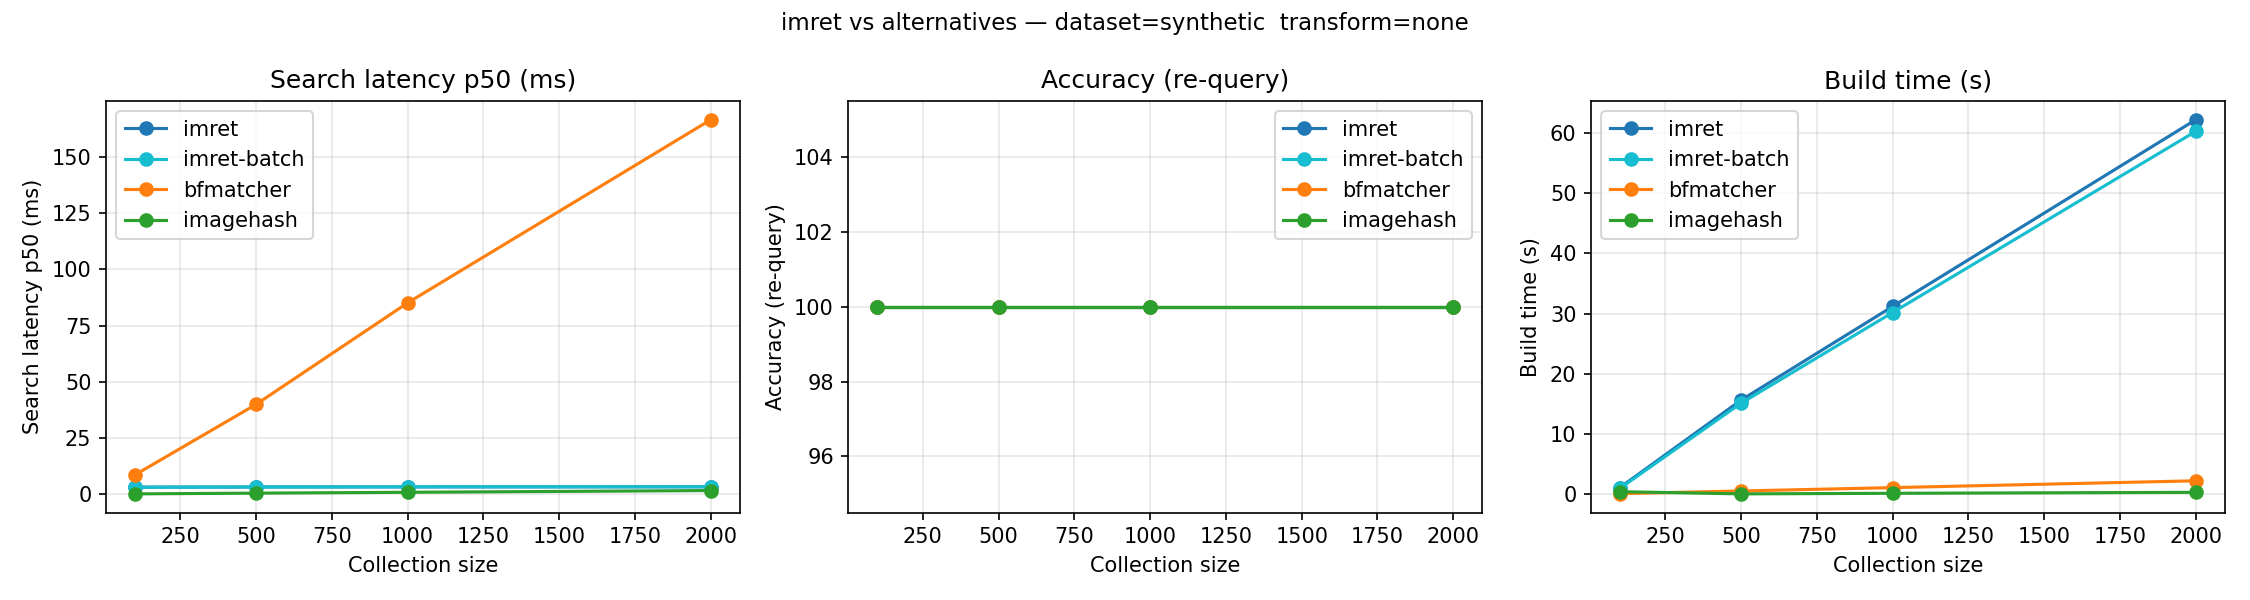
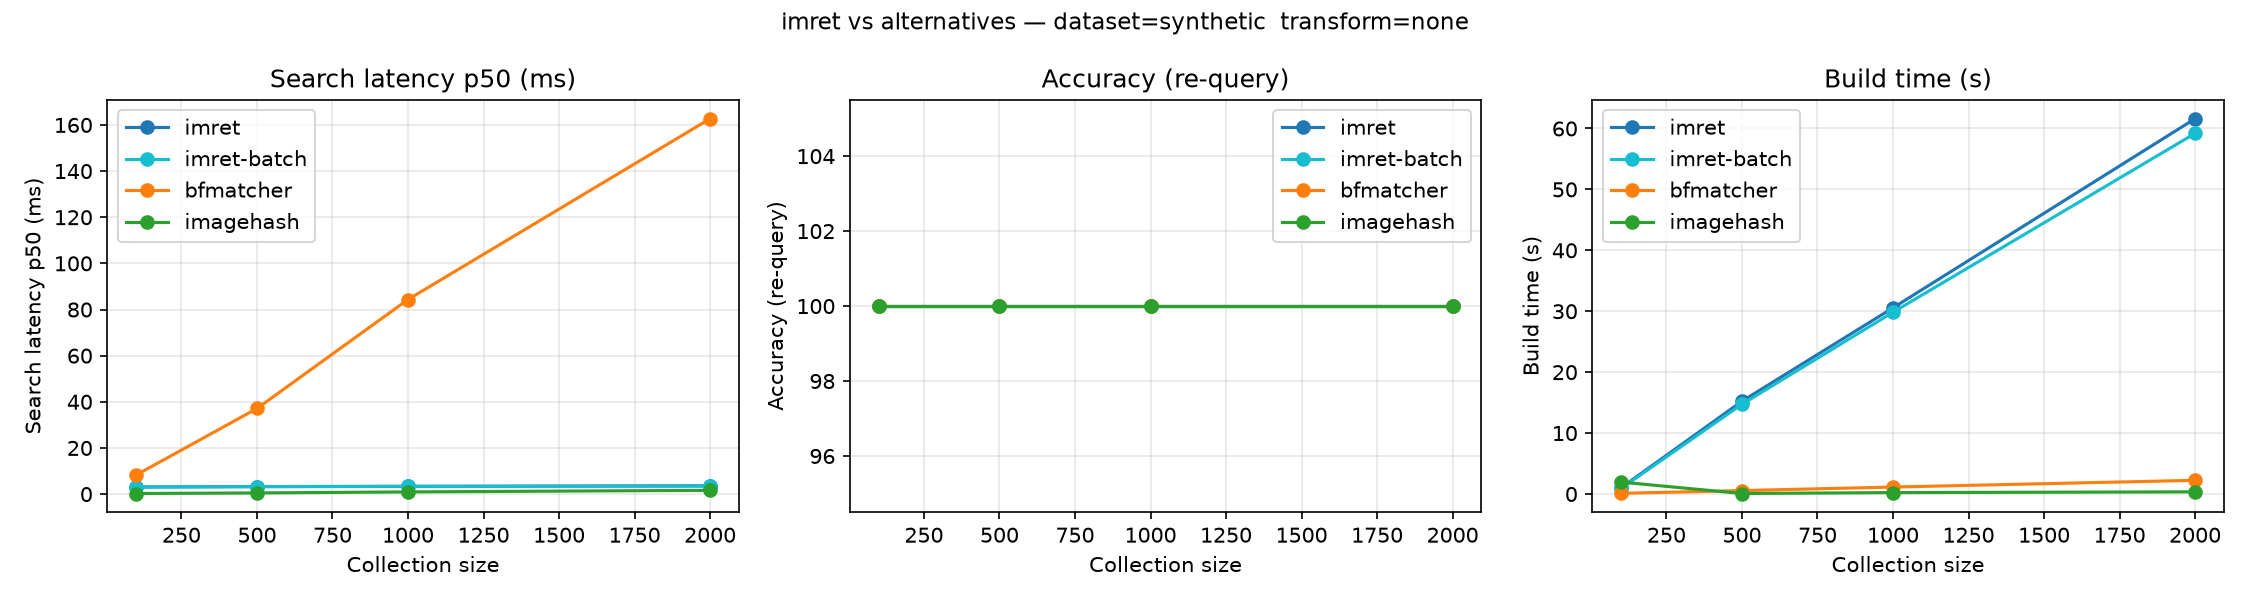
README: re-run benchmarks on 0.1.4; add Linux 0.1.1 vs 0.1.4 and 78k-scale results
macOS tables and plots regenerated with imret 0.1.4. New sections: Linux
x86_64 search 2.2-3.2x faster and build ~35-40% faster with the FAISS
dynamic-dispatch build; and a 77,893-cover album vault (top-1 94.5-99.8% on
synthetic phone photos, latency by CPU, and the confidence_threshold=0.05
recommendation for photos).

diff --git a/README.md b/README.md
@@ -204,9 +204,9 @@ Loads the vault at `<vault_prefix>.faiss` / `<vault_prefix>.meta`, searches with
 
 ## Benchmarks
 
-Generated by `benchmark.py` on macOS arm64, `max_features=500`, 20 queries per size.
+Generated by `benchmark.py` with imret 0.1.4 on macOS arm64, `max_features=500`, 20 queries per size. Linux x86_64 numbers and a large-scale run are further down.
 
-`imret` and `imret-batch` differ only at ingest: the batch variant uses `add_batch()` which extracts ORB features in parallel via OpenMP, reducing build time by up to 37% at large N. Search latency is identical.
+`imret` and `imret-batch` differ only at ingest: the batch variant uses `add_batch()` which extracts ORB features in parallel via OpenMP, reducing build time by up to 34% (WikiArt, N=1,000). Search latency is identical.
 
 ### Speed comparison — synthetic images, no transform
 
@@ -216,21 +216,21 @@ All methods score 100% accuracy on structurally distinct synthetic images, so th
 
 | N | imret | imret-batch | bfmatcher | imagehash |
 |---|---|---|---|---|
-| 100 | 3.19 | 3.11 | 8.60 | 0.20 |
-| 500 | 3.26 | 3.27 | 39.97 | 0.52 |
-| 1,000 | 3.30 | 3.33 | 85.14 | 0.90 |
-| 2,000 | 3.36 | 3.33 | 166.58 | 1.67 |
+| 100 | 3.08 | 3.04 | 8.28 | 0.26 |
+| 500 | 3.24 | 3.26 | 37.10 | 0.50 |
+| 1,000 | 3.35 | 3.37 | 84.34 | 0.95 |
+| 2,000 | 3.61 | 3.44 | 162.72 | 1.63 |
 
 **Build time (s)**
 
 | N | imret | imret-batch | bfmatcher | imagehash |
 |---|---|---|---|---|
-| 100 | 1.11 | 0.98 | 0.11 | 0.44 |
-| 500 | 15.64 | 15.12 | 0.56 | 0.07 |
-| 1,000 | 31.19 | 30.18 | 1.11 | 0.17 |
-| 2,000 | 62.20 | 60.27 | 2.25 | 0.33 |
+| 100 | 1.02 | 0.91 | 0.11 | 1.95 |
+| 500 | 15.23 | 14.73 | 0.56 | 0.08 |
+| 1,000 | 30.56 | 29.84 | 1.14 | 0.23 |
+| 2,000 | 61.61 | 59.20 | 2.24 | 0.35 |
 
-imret search latency is nearly flat (3.19ms → 3.36ms across 20× more images). BFMatcher grows linearly. Build time is higher because imret trains a FAISS IVF index upfront — a one-time cost at index time.
+imret search latency is nearly flat (3.08ms → 3.61ms across 20× more images). BFMatcher grows linearly. Build time is higher because imret trains a FAISS IVF index upfront — a one-time cost at index time.
 
 ### Accuracy comparison — WikiArt paintings, wall-photo transform
 
@@ -248,17 +248,61 @@ The wall transform adds a grey background border and light Gaussian blur, simula
 
 | N | imret | imret-batch | bfmatcher | imagehash |
 |---|---|---|---|---|
-| 100 | 21.64 | 21.54 | 29.74 | 1.69 |
-| 500 | 22.53 | 22.27 | 71.64 | 2.07 |
-| 1,000 | 22.21 | 22.33 | 130.68 | 2.42 |
+| 100 | 15.23 | 15.29 | 23.06 | 1.81 |
+| 500 | 15.15 | 16.04 | 64.94 | 2.13 |
+| 1,000 | 16.14 | 15.82 | 122.45 | 2.49 |
 
 imagehash is fast but effectively random on real images under this transform (10–15% ≈ 1-in-10 chance). imret maintains 100% accuracy. BFMatcher matches imret accuracy but latency grows linearly.
+
+### Linux x86_64 — 0.1.1 vs 0.1.4
+
+Synthetic images, Google Cloud Build `E2_HIGHCPU_8` (8 vCPU, AMD EPYC 7B12). imret 0.1.1's Linux wheel bundled a FAISS built for generic x86-64 with no hardware popcount, so every Hamming distance used a software bit count. 0.1.4 builds FAISS with runtime SIMD dispatch (`FAISS_OPT_LEVEL=dd`).
+
+**Search latency p50 (ms)**
+
+| N | imret 0.1.1 | imret 0.1.4 | speedup | bfmatcher | imagehash |
+|---|---|---|---|---|---|
+| 1,000 | 7.51 | 3.35 | 2.2× | 370.22 | 3.18 |
+| 5,000 | 11.75 | 4.41 | 2.7× | 1,847.78 | 14.88 |
+| 20,000 | 24.38 | 7.66 | 3.2× | 7,413.86 | 57.14 |
+
+**Build time (s)**
+
+| N | imret 0.1.1 | imret 0.1.4 | imret-batch 0.1.4 |
+|---|---|---|---|
+| 1,000 | 151.30 | 107.39 | 103.40 |
+| 5,000 | 426.76 | 271.01 | 266.34 |
+| 20,000 | 509.06 | 317.62 | 294.51 |
+
+All methods score 100% here, in both versions. The gap grows with N because the index scan, where popcount matters, grows while ORB extraction stays fixed. bfmatcher and imagehash are from the 0.1.4 run; they don't use FAISS, and in the 0.1.1 run they were within 5%.
+
+### At scale — 78k album covers
+
+imret as an album-cover recognizer. One vault holds 77,893 distinct covers (38.4M ORB descriptors, 1.54 GB on disk, 1.74 GB RSS when loaded), built in about 11 minutes on an M-series Mac. It was queried with synthetic phone photos of the covers: perspective, rotation, a cluttered background, a glare band, blur and JPEG compression, at three severities.
+
+| photo | top-1 accuracy |
+|---|---|
+| clean | 99.2% |
+| easy | 99.8% |
+| medium | 98.5% |
+| hard (cover at 40–65% of frame, ±15°) | 94.5% |
+
+Search latency at this scale depends mostly on CPU. Server-side search time, same photos (easy/medium/hard) and `confidence_threshold=0.05` in every row:
+
+| where | p50 | p95 |
+|---|---|---|
+| M-series Mac, 2 threads | 24 ms | 132 ms |
+| Cloud Run, 2 vCPU, imret 0.1.1 | 348 ms | 2,823 ms |
+| Cloud Run, 2 vCPU, imret 0.1.4 | 158 ms | 1,236 ms |
+
+The p95 tail is queries that fall back to the 64-cell search. For photos, `confidence_threshold=0.05` (instead of the default 0.15) kept the same accuracy, cut fallbacks from 60% to 42% of queries, and cut p50 from 78 ms to 22 ms (Mac, 14 threads).
 
 To reproduce:
 
 ```bash
 python benchmark.py --dataset wikiart --transform wall --sizes 100,500,1000 --plot
 python benchmark.py --sizes 100,500,1000,2000 --plot   # synthetic speed comparison
+python benchmark.py --sizes 1000,5000,20000            # the Linux table
 ```
 
 ## Publishing a release
